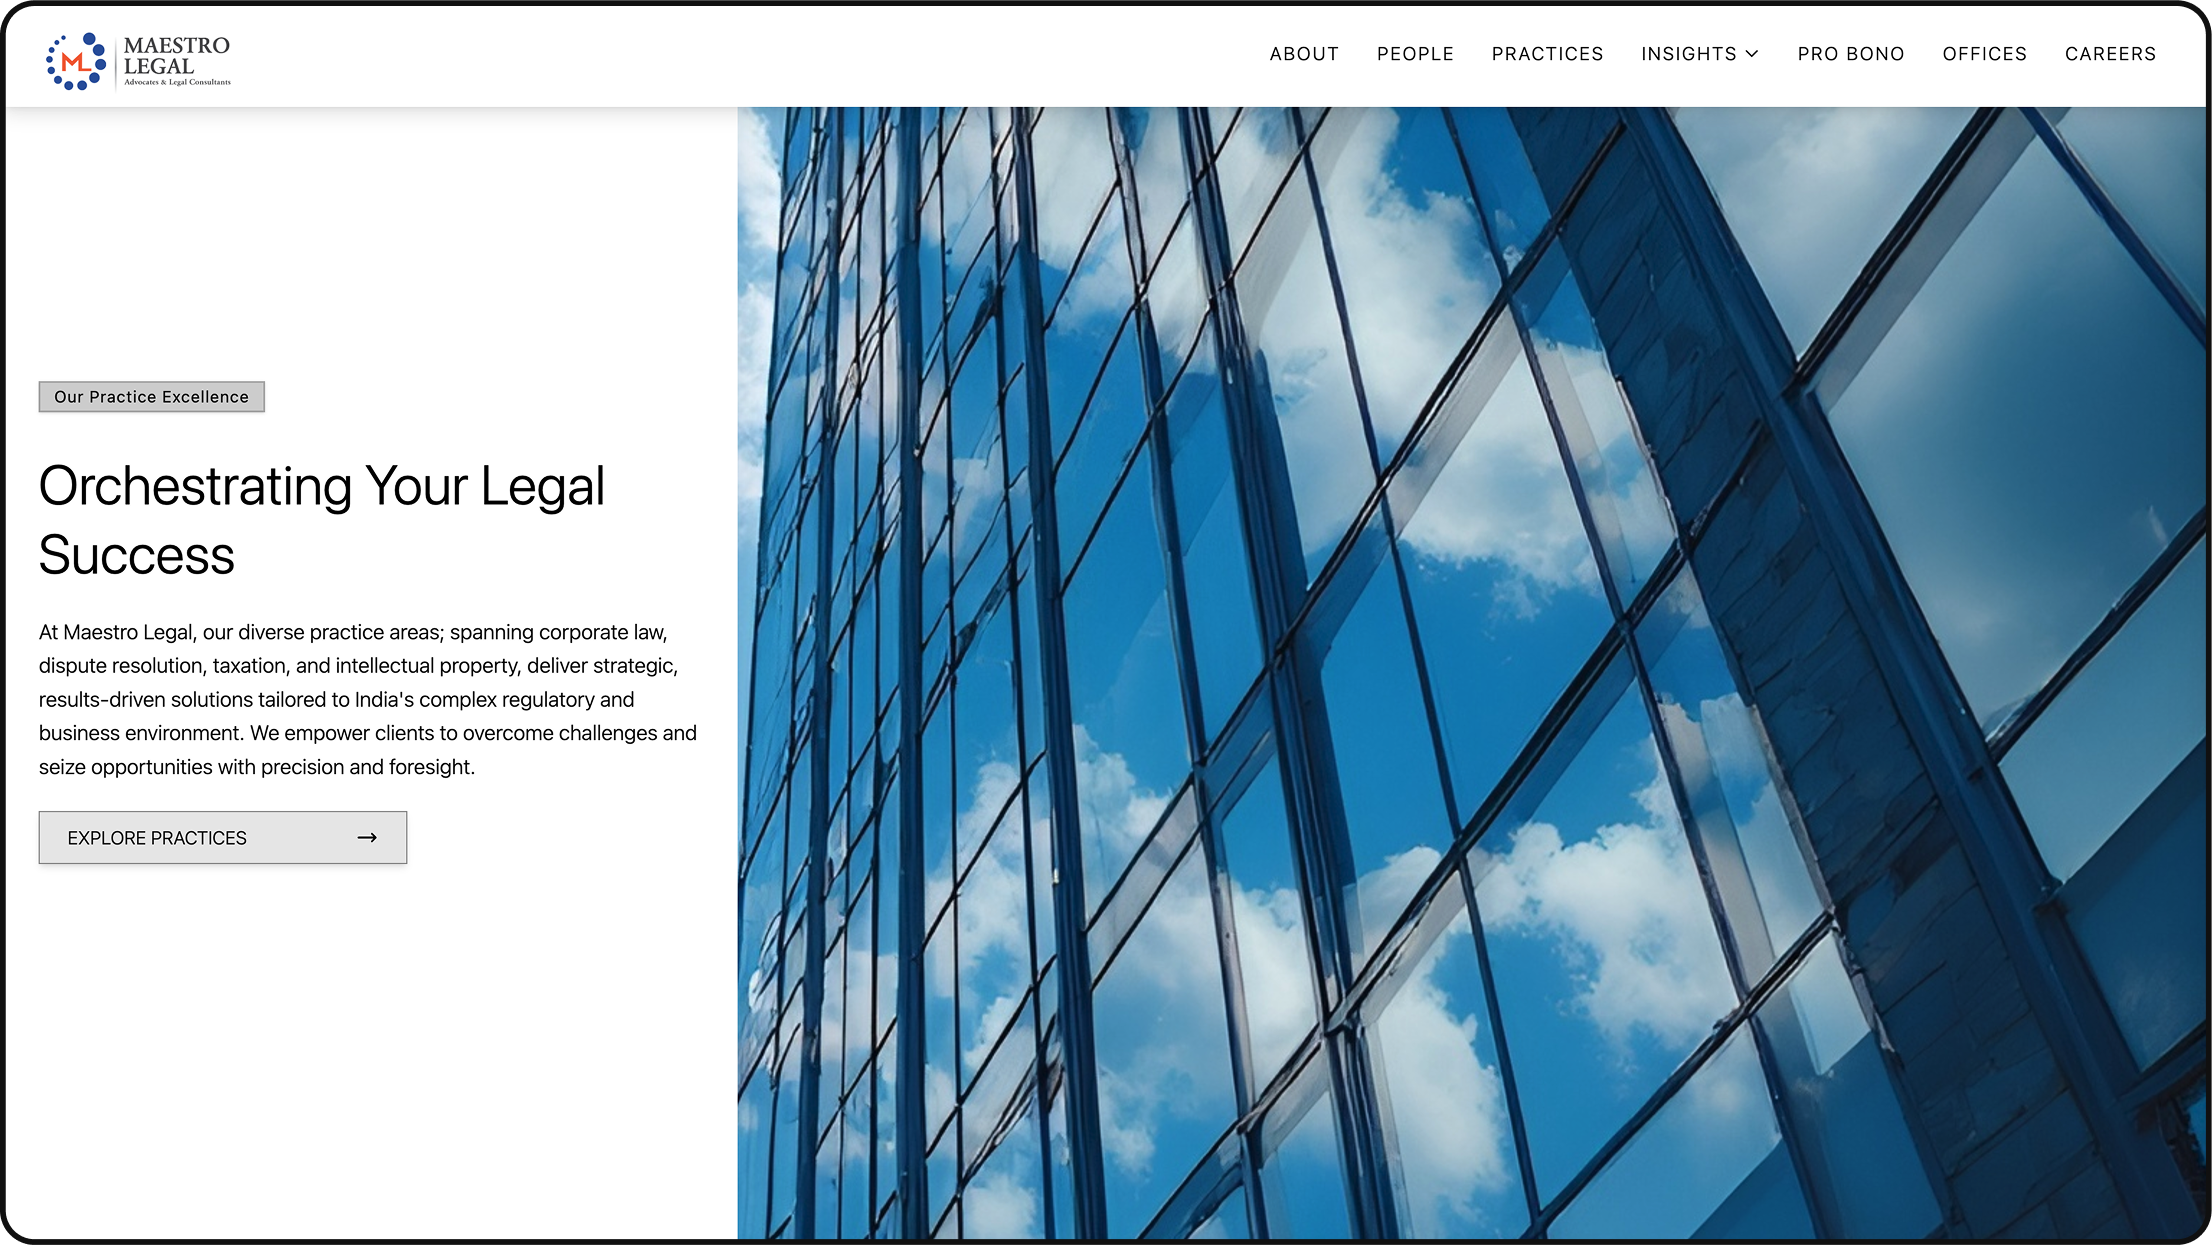
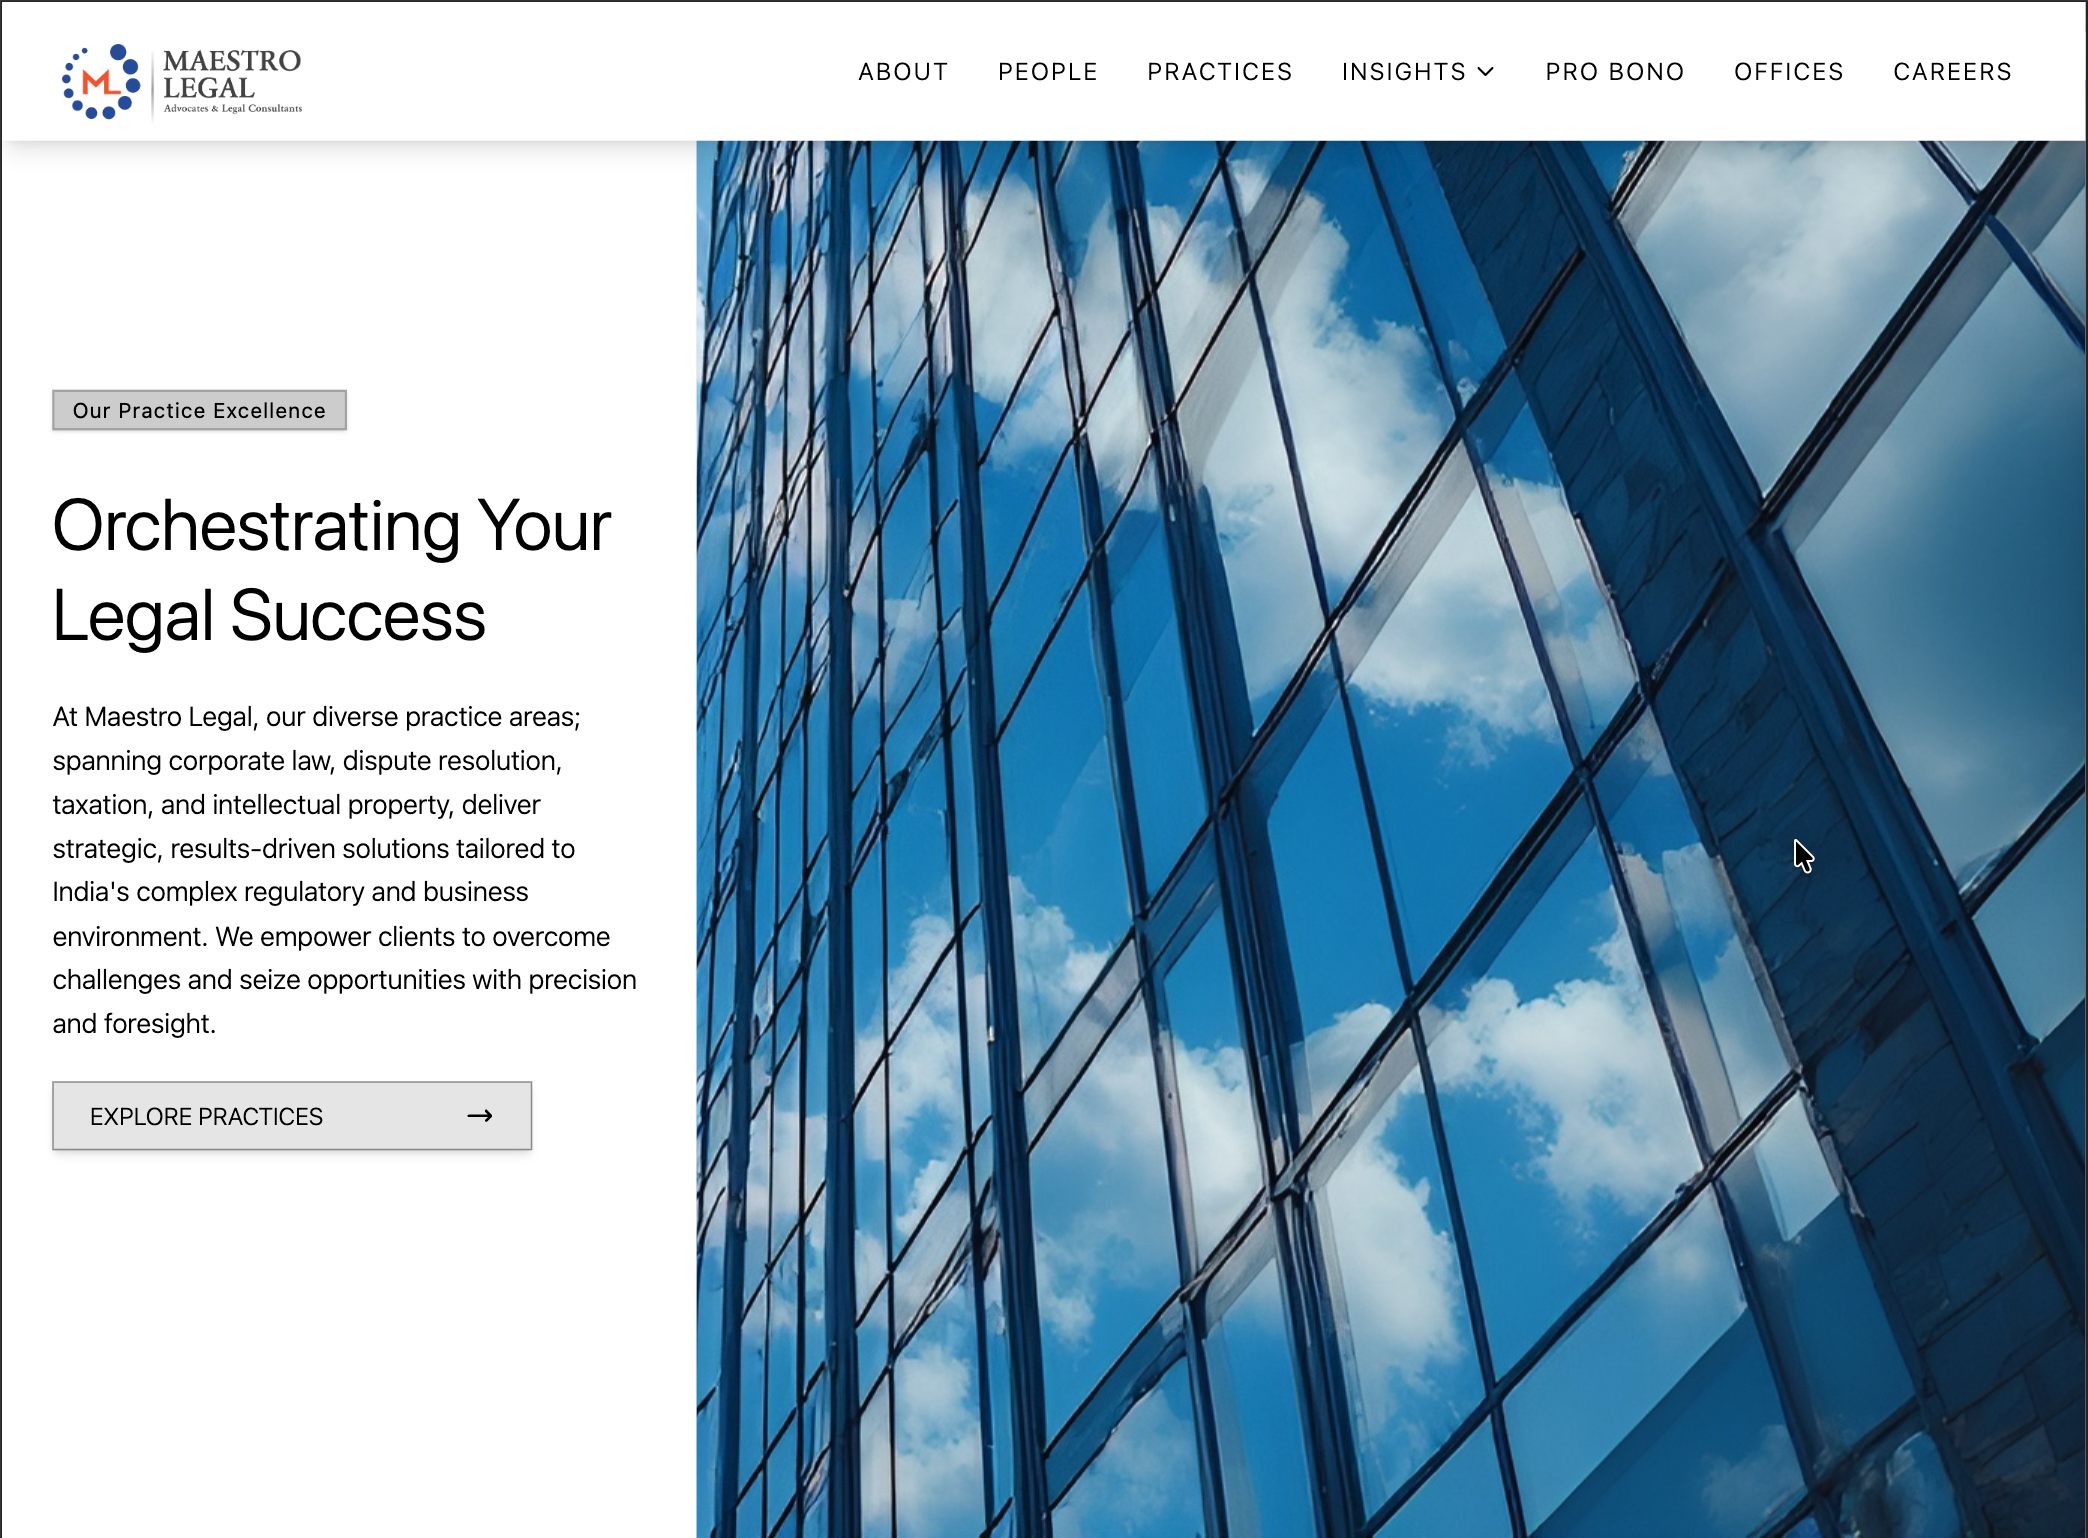
feat: update stack images in services configuration and add new image assets

diff --git a/app/services/services.ts b/app/services/services.ts
@@ -89,10 +89,10 @@ export const servicesConfig: Record<string, ServiceConfig> = {
       "PostHog"
     ],
     stackImages: [
-      "/image1.png",
-      "/image2.png",
-      "/image3.png",
-      "/image.png"
+      "/png/works/abnb.png",
+      "/png/works/apex.png",
+      "/png/works/maestro.png",
+      "/png/works/imperial.png"
     ]
   },
   app: {
